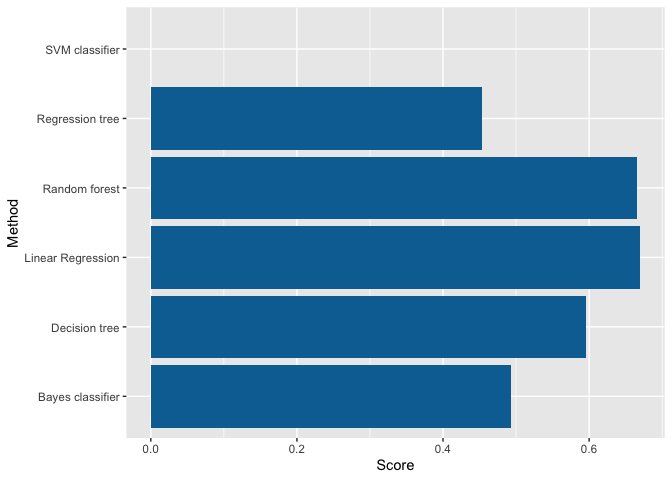
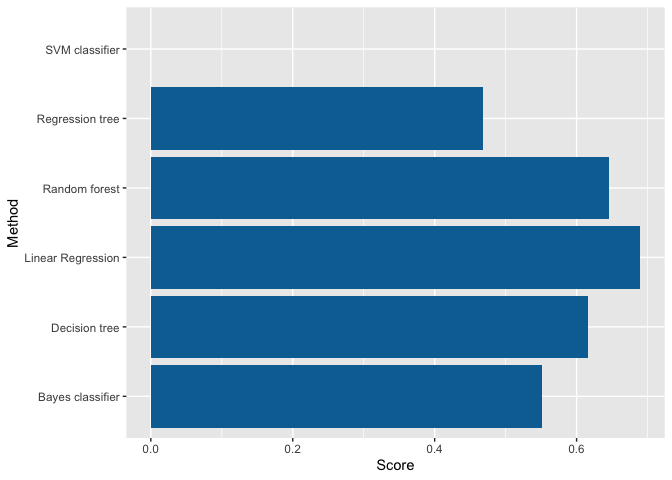
update

diff --git a/README.md b/README.md
@@ -367,7 +367,7 @@ df.train$name = as.factor(df.train$name)
 str(df.train)
 ```
 
-    ## 'data.frame':    18958 obs. of  25 variables:
+    ## 'data.frame':    18887 obs. of  25 variables:
     ##  $ raceId          : int  10 10 10 10 10 10 10 10 10 10 ...
     ##  $ driverId        : int  1 10 12 13 15 153 16 17 18 2 ...
     ##  $ constructorId   : int  1 7 4 6 7 5 10 9 23 2 ...
@@ -379,13 +379,13 @@ str(df.train)
     ##  $ points          : num  10 3 0 0 1 0 0 6 2 0 ...
     ##  $ laps            : int  70 70 70 0 70 69 1 70 70 70 ...
     ##  $ fastestLapSpeed : num  191 191 189 0 189 ...
-    ##  $ status          : Factor w/ 124 levels "+1 Lap","+10 Laps",..: 63 63 63 124 63 1 92 63 63 63 ...
+    ##  $ status          : Factor w/ 127 levels "+1 Lap","+10 Laps",..: 65 65 65 127 65 1 95 65 65 65 ...
     ##  $ dob             : chr  "1985-01-07" "1982-03-18" "1985-07-25" "1981-04-25" ...
     ##  $ driv_nationality: Factor w/ 41 levels "American","American-Italian",..: 9 19 8 8 24 36 19 5 9 19 ...
-    ##  $ fullname        : Factor w/ 582 levels "Adrián Campos",..: 336 543 400 159 261 257 2 360 274 403 ...
+    ##  $ fullname        : Factor w/ 574 levels "Adrián Campos",..: 332 535 396 155 259 255 2 355 271 399 ...
     ##  $ round           : int  10 10 10 10 10 10 10 10 10 10 ...
     ##  $ date            : chr  "2009-07-26" "2009-07-26" "2009-07-26" "2009-07-26" ...
-    ##  $ const_name      : Factor w/ 156 levels "AGS","Alfa Romeo",..: 101 149 125 51 149 148 55 124 21 13 ...
+    ##  $ const_name      : Factor w/ 156 levels "AGS","Alfa Romeo",..: 101 149 125 52 149 148 56 124 21 13 ...
     ##  $ name            : Factor w/ 70 levels "Adelaide Street Circuit",..: 36 36 36 36 36 36 36 36 36 36 ...
     ##  $ const_points    : num  28 38.5 13 40 38.5 5 0 98.5 114 8 ...
     ##  $ const_wins      : int  1 0 0 0 0 0 0 3 6 0 ...
@@ -403,7 +403,7 @@ df.test$name = as.factor(df.test$name)
 str(df.test)
 ```
 
-    ## 'data.frame':    4735 obs. of  25 variables:
+    ## 'data.frame':    4806 obs. of  25 variables:
     ##  $ raceId          : int  1 1 1 1 1 1 1 1 1 1 ...
     ##  $ driverId        : int  10 15 16 17 18 2 20 21 22 3 ...
     ##  $ constructorId   : int  7 7 10 9 23 2 9 10 23 3 ...
@@ -415,14 +415,14 @@ str(df.test)
     ##  $ points          : num  5 6 0 0 10 0 0 0 8 3 ...
     ##  $ laps            : int  58 58 58 57 58 58 56 58 58 58 ...
     ##  $ fastestLapSpeed : num  216 215 215 216 217 ...
-    ##  $ status          : Factor w/ 94 levels "+1 Lap","+10 Laps",..: 42 42 42 1 42 42 25 42 42 42 ...
+    ##  $ status          : Factor w/ 88 levels "+1 Lap","+10 Laps",..: 40 40 40 1 40 40 23 40 40 40 ...
     ##  $ dob             : chr  "1982-03-18" "1974-07-13" "1983-01-11" "1976-08-27" ...
-    ##  $ driv_nationality: Factor w/ 38 levels "American","Argentine",..: 17 22 17 3 7 17 17 22 6 17 ...
-    ##  $ fullname        : Factor w/ 435 levels "Adrián Campos",..: 408 191 2 269 201 306 383 134 376 308 ...
+    ##  $ driv_nationality: Factor w/ 37 levels "American","Argentine",..: 17 21 17 3 7 17 17 21 6 17 ...
+    ##  $ fullname        : Factor w/ 452 levels "Adrián Campos",..: 422 194 2 274 203 309 396 139 389 311 ...
     ##  $ round           : int  1 1 1 1 1 1 1 1 1 1 ...
     ##  $ date            : chr  "2009-03-29" "2009-03-29" "2009-03-29" "2009-03-29" ...
-    ##  $ const_name      : Factor w/ 126 levels "AGS","Alfa Romeo",..: 119 119 46 98 21 13 98 46 21 124 ...
-    ##  $ name            : Factor w/ 53 levels "Adelaide Street Circuit",..: 2 2 2 2 2 2 2 2 2 2 ...
+    ##  $ const_name      : Factor w/ 126 levels "AGS","Alfa Romeo",..: 120 120 46 99 21 13 99 46 21 124 ...
+    ##  $ name            : Factor w/ 53 levels "Adelaide Street Circuit",..: 3 3 3 3 3 3 3 3 3 3 ...
     ##  $ const_points    : num  11 11 0 0 18 0 0 0 18 3 ...
     ##  $ const_wins      : int  0 0 0 0 1 0 0 0 1 0 ...
     ##  $ driver_age      : int  27 35 26 33 29 32 22 36 37 24 ...
@@ -557,25 +557,25 @@ summary(linearmodel)
     ## 
     ## Residuals:
     ##      Min       1Q   Median       3Q      Max 
-    ## -20.1333  -2.9878  -0.0162   2.9543  20.4284 
+    ## -20.0469  -2.9776  -0.0566   2.9487  20.4586 
     ## 
     ## Coefficients:
     ##                   Estimate Std. Error  t value Pr(>|t|)    
-    ## (Intercept)      2.144e+01  1.134e-01  189.012  < 2e-16 ***
-    ## grid             1.072e-01  5.172e-03   20.724  < 2e-16 ***
-    ## laps            -2.214e-01  1.389e-03 -159.395  < 2e-16 ***
-    ## fastestLapSpeed  9.387e-03  1.572e-03    5.970 2.42e-09 ***
-    ## round            1.294e-01  7.620e-03   16.983  < 2e-16 ***
-    ## const_points    -1.540e-02  7.016e-04  -21.957  < 2e-16 ***
-    ## const_wins      -1.082e-01  3.412e-02   -3.171  0.00152 ** 
-    ## fastestLap_ms   -8.892e-06  3.436e-06   -2.588  0.00967 ** 
-    ## wins            -5.422e-01  4.857e-02  -11.163  < 2e-16 ***
+    ## (Intercept)      2.129e+01  1.132e-01  188.108  < 2e-16 ***
+    ## grid             1.162e-01  5.191e-03   22.379  < 2e-16 ***
+    ## laps            -2.199e-01  1.385e-03 -158.813  < 2e-16 ***
+    ## fastestLapSpeed  7.545e-03  1.563e-03    4.828 1.39e-06 ***
+    ## round            1.243e-01  7.414e-03   16.764  < 2e-16 ***
+    ## const_points    -1.471e-02  6.925e-04  -21.247  < 2e-16 ***
+    ## const_wins      -1.503e-01  3.400e-02   -4.420 9.95e-06 ***
+    ## fastestLap_ms   -6.332e-06  3.433e-06   -1.844   0.0652 .  
+    ## wins            -4.552e-01  4.830e-02   -9.425  < 2e-16 ***
     ## ---
     ## Signif. codes:  0 '***' 0.001 '**' 0.01 '*' 0.05 '.' 0.1 ' ' 1
     ## 
-    ## Residual standard error: 4.645 on 18949 degrees of freedom
-    ## Multiple R-squared:  0.6361, Adjusted R-squared:  0.636 
-    ## F-statistic:  4141 on 8 and 18949 DF,  p-value: < 2.2e-16
+    ## Residual standard error: 4.615 on 18878 degrees of freedom
+    ## Multiple R-squared:  0.6365, Adjusted R-squared:  0.6363 
+    ## F-statistic:  4131 on 8 and 18878 DF,  p-value: < 2.2e-16
 
 ``` r
 avPlots(linearmodel)
@@ -590,7 +590,7 @@ data. Also, the majority of variables are strongly significant.
 ![](README_files/figure-markdown_github/unnamed-chunk-23-1.png)
 
     ##  682 1390 
-    ##  508 1016
+    ##  507 1095
 
 In order to test the significance of the whole model, we should first
 look at the normality of the residuals. From the qqplot presented above,
@@ -608,7 +608,7 @@ predict_lm = predict(linearmodel, df.test)
 score_regression(df.test, predict_lm) 
 ```
 
-    ## [1] 0.6699507
+    ## [1] 0.6896552
 
 <br>
 
@@ -626,7 +626,7 @@ predict_rt = predict(regr_tree, newdata = df.test)
 score_regression(df.test, predict_rt) 
 ```
 
-    ## [1] 0.453202
+    ## [1] 0.4679803
 
 <br> <br>
 
@@ -654,7 +654,7 @@ prediction_nb <- predict(df.nb, newdata = df.test, type = 'raw')
 score_classification(df.test, prediction_nb) 
 ```
 
-    ## [1] 0.4926108
+    ## [1] 0.5517241
 
 <br>
 
@@ -667,7 +667,7 @@ prediction_dt = predict(df.dt, newdata = df.test, method="prob")
 score_classification(df.test, prediction_dt) 
 ```
 
-    ## [1] 0.5960591
+    ## [1] 0.6157635
 
 ``` r
 rpart.plot(df.dt,faclen = 2)
@@ -686,14 +686,14 @@ confirmed by the variable importance section of the rpart object.
 df.dt$variable.importance
 ```
 
-    ##             wins       const_wins             grid             name 
-    ##      389.3038258      164.0184989      163.9032238       64.7047601 
-    ##             laps            round     const_points         driverId 
-    ##       60.6786046       48.8800763       48.1449161       33.6520975 
-    ## driv_nationality           raceId        circuitId    constructorId 
-    ##       28.5609992       12.3946192       12.0500961        8.6979297 
-    ##    fastestLap_ms  fastestLapSpeed       driver_age 
-    ##        4.2786738        3.2324582        0.5094438
+    ##             wins       const_wins             grid             laps 
+    ##      389.3643915      163.7201010      149.6169496       68.1576007 
+    ##     const_points             name            round         driverId 
+    ##       58.8455246       57.8648512       50.6597080       29.0681425 
+    ## driv_nationality        circuitId           raceId  fastestLapSpeed 
+    ##        9.4406771        7.7352196        7.5407942        3.6437450 
+    ##    fastestLap_ms       driver_age    constructorId 
+    ##        2.6035345        0.5297386        0.3405462
 
 Also, we may want to validate the tree by looking at the complexity
 parameters through cross validation.
@@ -709,19 +709,17 @@ printcp(df.dt)
     ##     method = "class")
     ## 
     ## Variables actually used in tree construction:
-    ## [1] driv_nationality grid             laps             name            
-    ## [5] raceId           round            wins            
+    ## [1] grid   laps   name   raceId round  wins  
     ## 
-    ## Root node error: 809/18958 = 0.042673
+    ## Root node error: 809/18887 = 0.042834
     ## 
-    ## n= 18958 
+    ## n= 18887 
     ## 
     ##         CP nsplit rel error  xerror     xstd
-    ## 1 0.031726      0   1.00000 1.00000 0.034400
-    ## 2 0.026576      4   0.83313 0.86897 0.032161
-    ## 3 0.012361      6   0.77998 0.84920 0.031806
-    ## 4 0.010507      8   0.75525 0.88752 0.032489
-    ## 5 0.010000     14   0.68232 0.87639 0.032292
+    ## 1 0.028842      0   1.00000 1.00000 0.034397
+    ## 2 0.014833      6   0.76267 0.88381 0.032421
+    ## 3 0.012979      7   0.74784 0.89370 0.032595
+    ## 4 0.010000      9   0.72188 0.88133 0.032377
 
 And select the number of splits with the lowest error.
 
@@ -741,7 +739,7 @@ prediction_dt_pruned = predict(pruned.df.dt, newdata = df.test, method="prob")
 score_classification(df.test, prediction_dt_pruned) 
 ```
 
-    ## [1] 0.635468
+    ## [1] 0.6157635
 
 <br>
 
@@ -756,7 +754,7 @@ prediction.rf[is.na(prediction.rf)] <- 0
 score_classification(df.test, prediction.rf) 
 ```
 
-    ## [1] 0.6650246
+    ## [1] 0.6453202
 
 <br>
 
